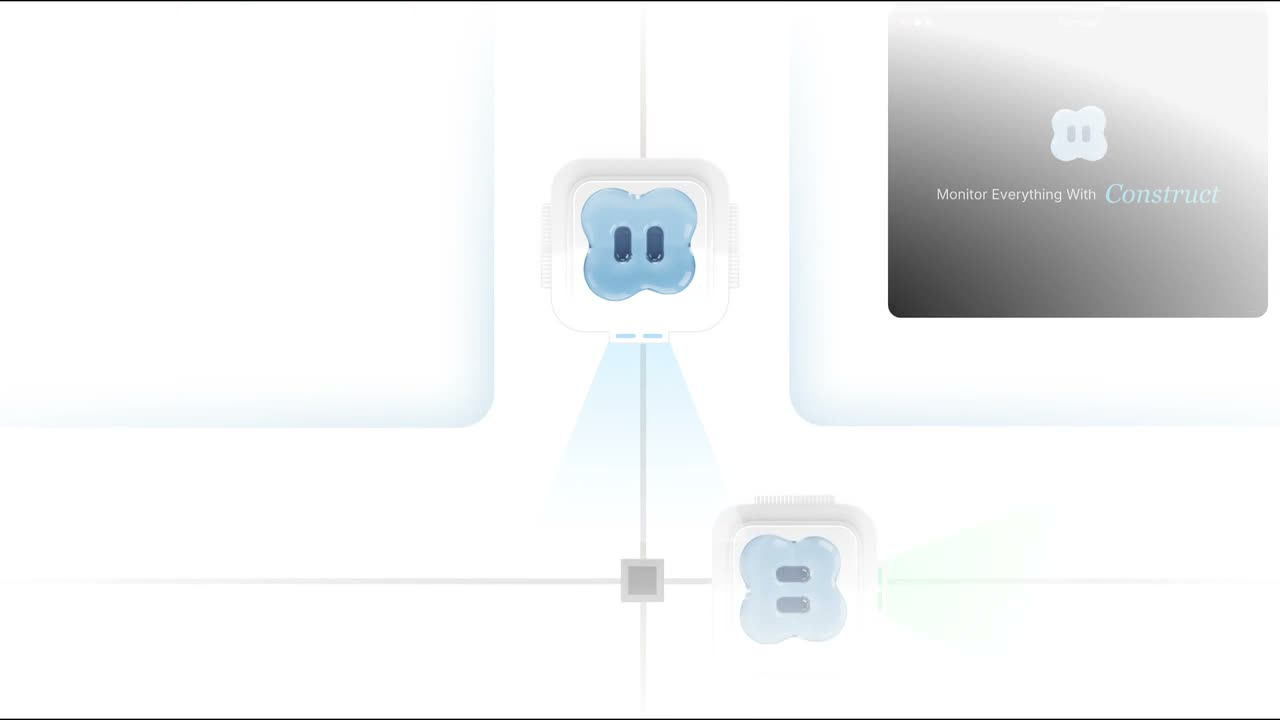
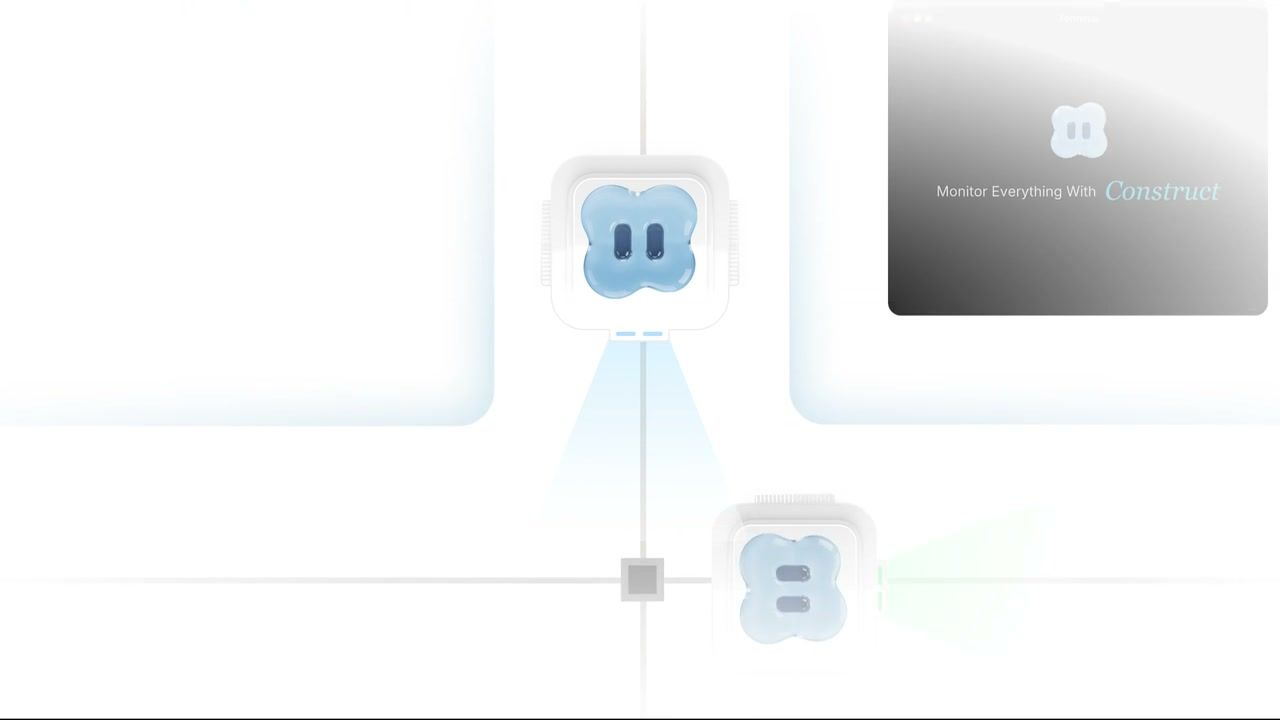
fix: enforce white video fallbacks

diff --git a/src/index.css b/src/index.css
@@ -13,6 +13,12 @@
     -webkit-user-drag: none;
     user-select: none;
   }
+
+  .landing-page video {
+    background: white;
+    border: 0;
+    outline: 0;
+  }
 }
 
 /* cool Bun background animation 😎 */

diff --git a/src/landing/workflow-demos.ts b/src/landing/workflow-demos.ts
@@ -1,8 +1,6 @@
 import researchVideoMp4 from "@/assets/research.mp4"
-import researchVideo from "@/assets/research.webm"
 import researchPoster from "@/assets/research-poster.jpg"
 import slackVideoMp4 from "@/assets/slack.mp4"
-import slackVideo from "@/assets/slack.webm"
 import slackPoster from "@/assets/slack-poster.jpg"
 
 export const WORKFLOW_DEMOS = [
@@ -15,7 +13,6 @@ export const WORKFLOW_DEMOS = [
     cta: "Research a Topic",
     nextLabel: "Work Together Across Channels",
     mutedAction: "See Report Samples Generated",
-    video: researchVideo,
     videoMp4: researchVideoMp4,
     poster: researchPoster,
     ariaLabel: "Construct researching a topic in the product interface",
@@ -29,7 +26,6 @@ export const WORKFLOW_DEMOS = [
     cta: "Collaborate",
     nextLabel: "Research About Any Topic",
     mutedAction: "See Shared Threads",
-    video: slackVideo,
     videoMp4: slackVideoMp4,
     poster: slackPoster,
     ariaLabel:

diff --git a/src/landing/Desktop.tsx b/src/landing/Desktop.tsx
@@ -154,7 +154,7 @@ function WorkflowVideoPanel({
   )
 
   return (
-    <div className="relative aspect-964/694 overflow-hidden rounded-[53px] bg-white/20">
+    <div className="relative aspect-964/694 overflow-hidden rounded-[53px] bg-white">
       {WORKFLOW_DEMOS.map((demo, index) => {
         const distance = index - workflowPosition
         const isDominant = index === dominantIndex

diff --git a/src/landing/Mobile.tsx b/src/landing/Mobile.tsx
@@ -212,7 +212,7 @@ function MobileWorkflowVideoPanel({
 
   return (
     <div
-      className="relative mx-auto aspect-964/694 w-full overflow-hidden rounded-[32px] bg-white/20"
+      className="relative mx-auto aspect-964/694 w-full overflow-hidden rounded-[32px] bg-white"
       style={{
         maxWidth:
           viewportMode === "short"

diff --git a/src/landing/shared.tsx b/src/landing/shared.tsx
@@ -7,7 +7,6 @@ import type {
   SVGProps,
 } from "react"
 import buttonBg from "@/assets/button-bg.svg"
-import bgVideoWebm from "@/assets/hero-bg.webm"
 import bgVideoMp4 from "@/assets/hero-bg.mp4"
 import heroPoster from "@/assets/hero-poster.jpg"
 import imgDocs from "@/assets/docs.png"
@@ -281,7 +280,6 @@ export function PortalVideo({
       aria-hidden
       className={className ?? "h-full w-full object-cover"}
     >
-      <source src={bgVideoWebm} type="video/webm" media={media} />
       <source src={bgVideoMp4} type="video/mp4" media={media} />
     </video>
   )

diff --git a/src/landing/WorkflowVideoLayer.tsx b/src/landing/WorkflowVideoLayer.tsx
@@ -63,7 +63,6 @@ export function WorkflowVideoLayer({
       }}
       className="absolute inset-0 h-full w-full object-cover"
     >
-      <source src={demo.video} type="video/webm" media={media} />
       <source src={demo.videoMp4} type="video/mp4" media={media} />
     </video>
   )